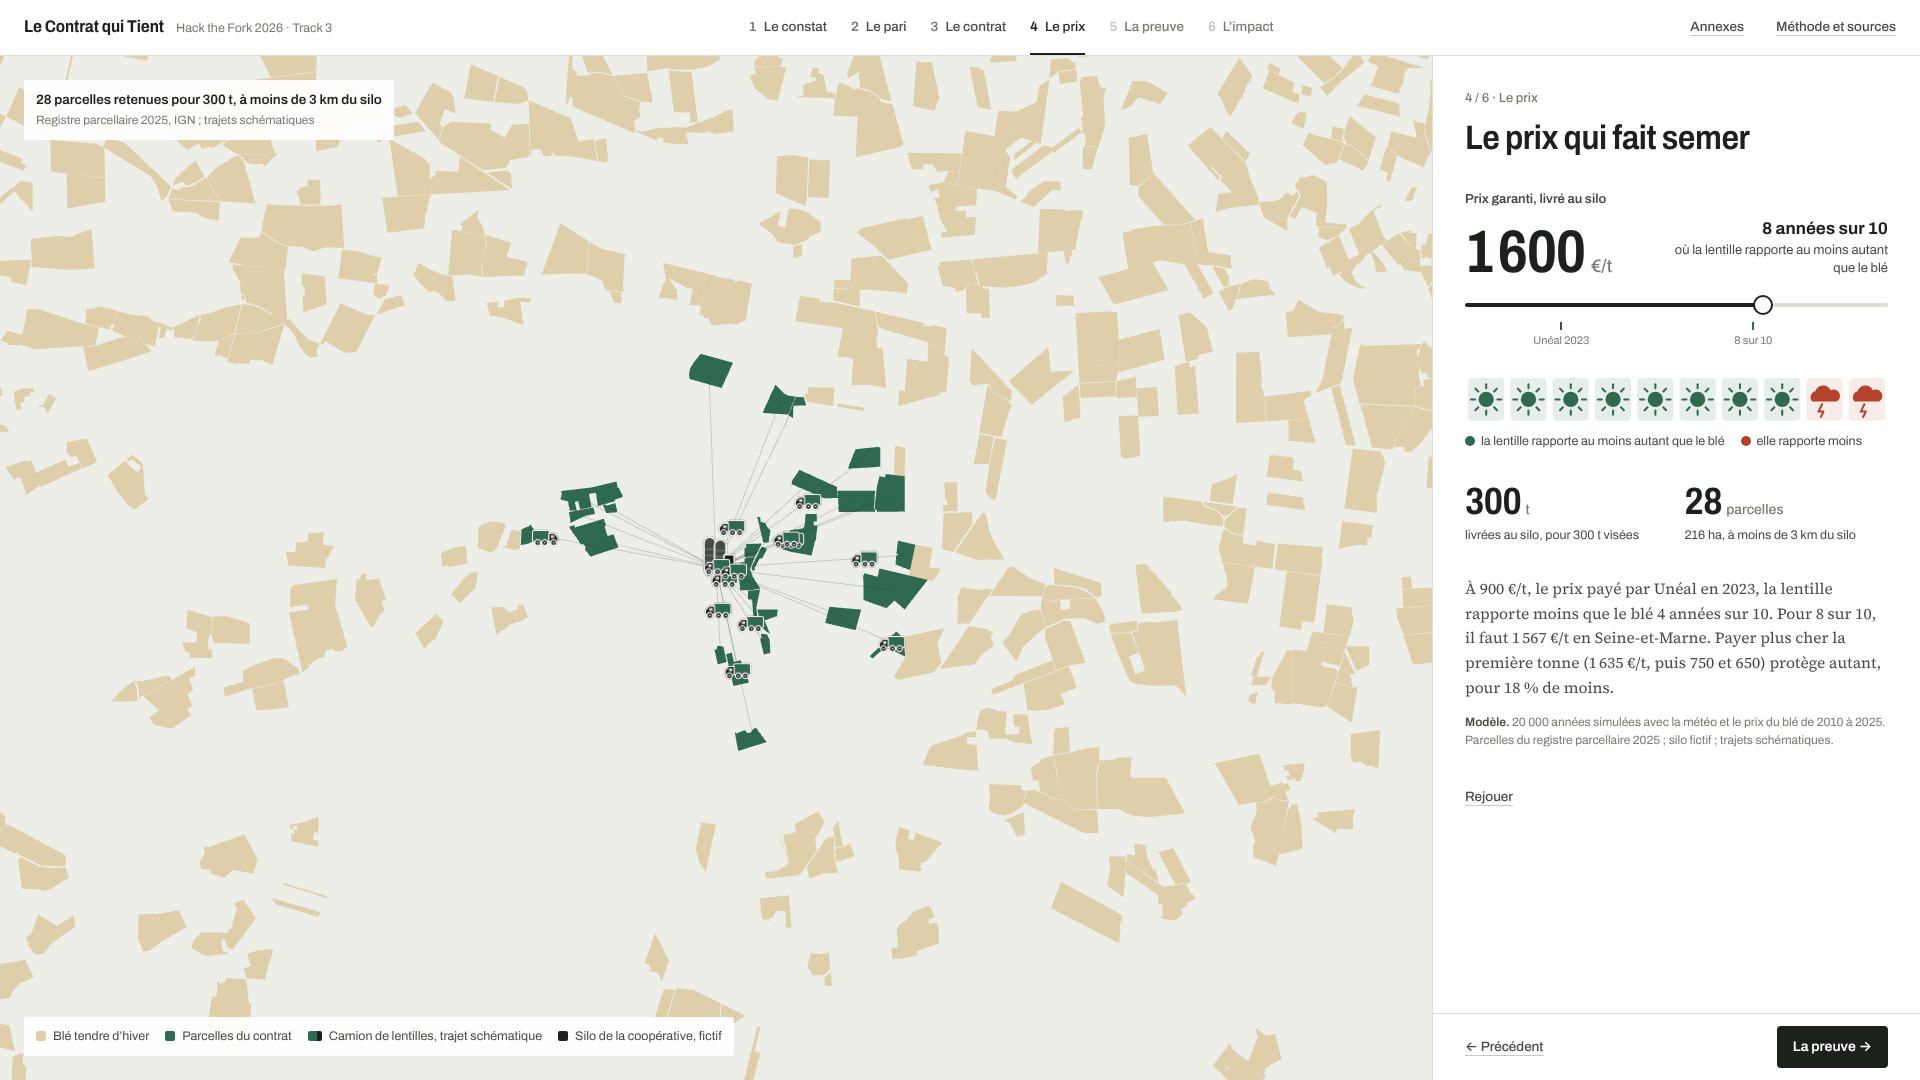
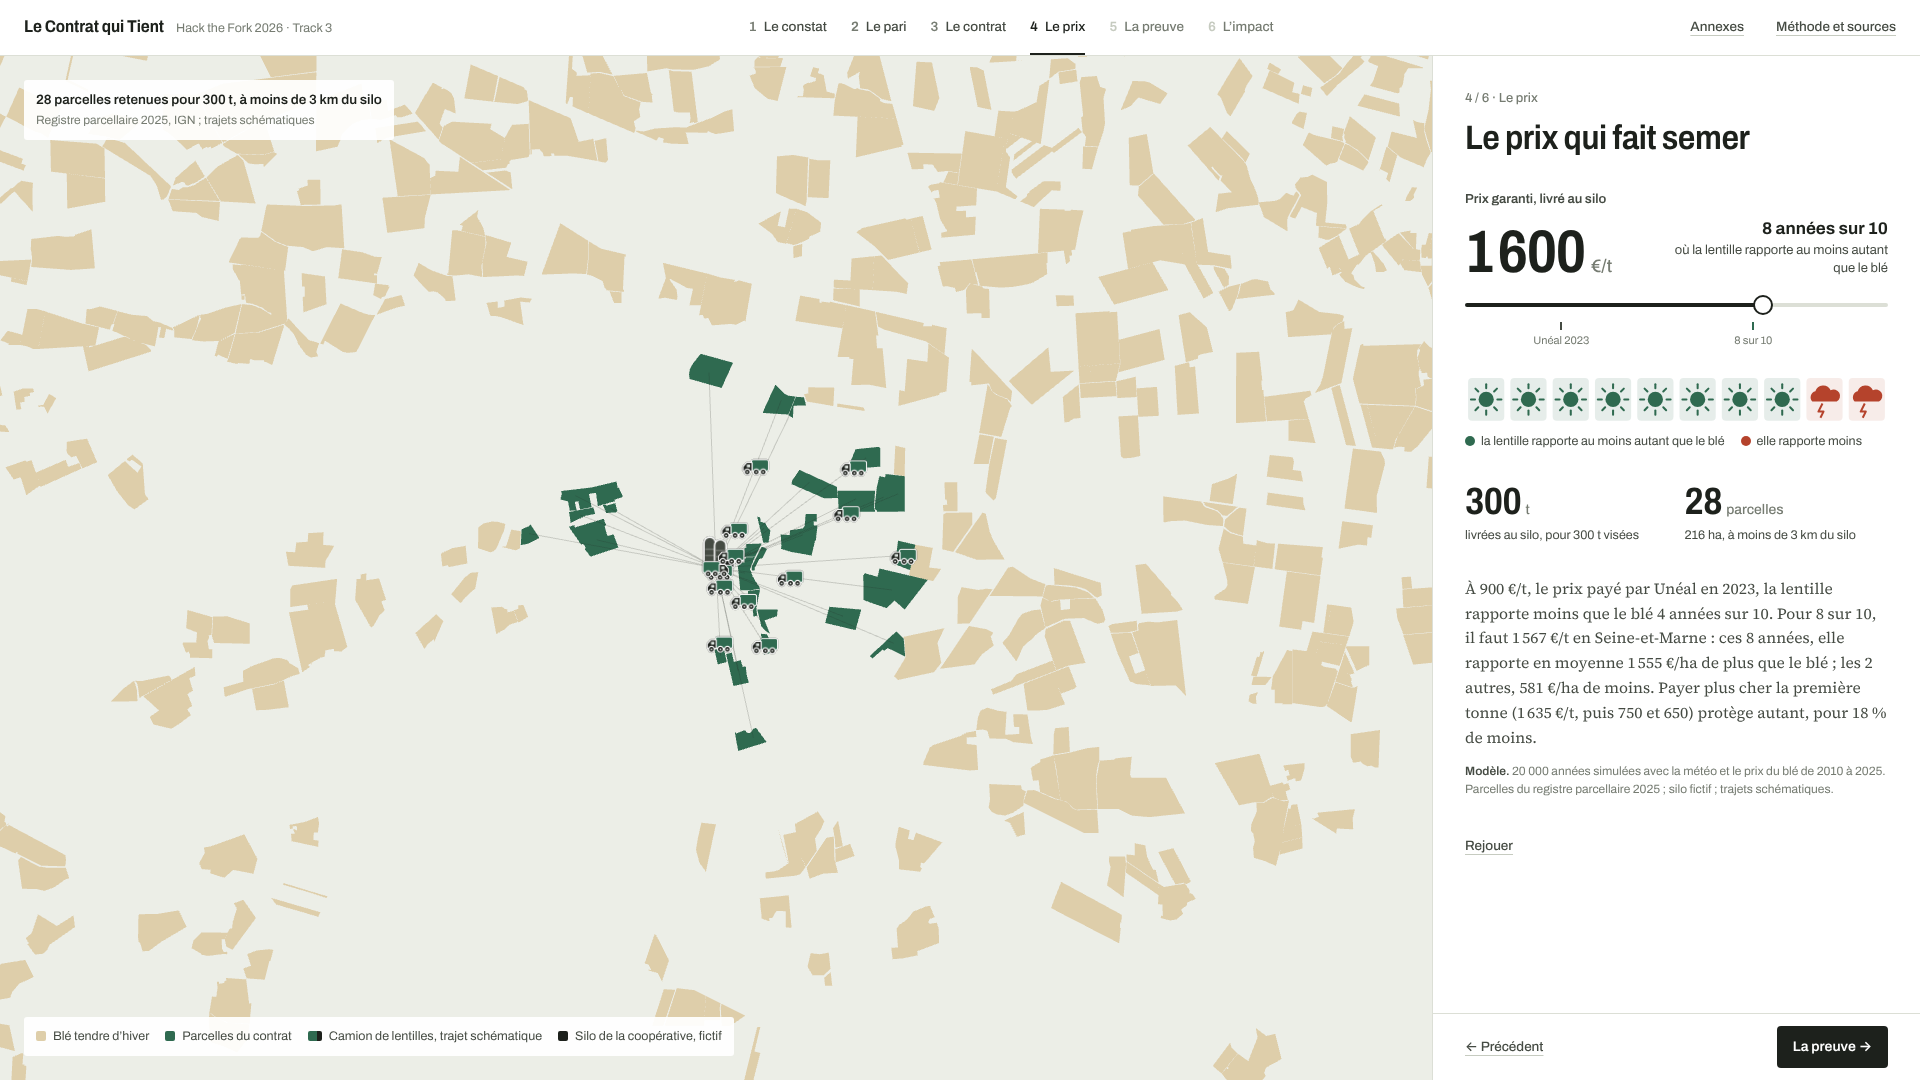
Ce que gagne l'agriculteur face au blé, ce que paie la coopérative
« 8 années sur 10 » est un plancher, pas la moyenne. 07_contrats.py
exporte, pour chaque contrat, l'écart moyen de marge avec le blé de la
même année, le gain moyen des années gagnées et la marge moyenne du blé
(seuls nouveaux champs, le reste de l'export est identique).

- Écran 4 : ces 8 années, la lentille rapporte en moyenne 1 555 €/ha de
  plus que le blé ; les 2 autres, 581 €/ha de moins.
- Annexe du contrat : tableau agriculteur / coopérative pour les cinq
  contrats.
- Notes de pitch, résultats, limites (prix de revente de la
  coopérative) et test de cohérence.

Claude-Session: https://claude.ai/code/session_015xc9sW8eqY5kEx39k7wsjx

diff --git a/app/src/App.tsx b/app/src/App.tsx
@@ -62,6 +62,19 @@ const wins = (p: number) => Math.round(reliabilityAt(p) * 10);
 const round1000 = (x: number) => Math.round(x / 1000) * 1000;
 const keur = (x: number) => `${fmt(x / 1000)}\u00a0k€`;
 const IDX = CONTRATS.indexe;
+// Ce que gagne l'agriculteur face au blé de la même année, ce que paie la coopérative (07_contrats.py).
+type Ferme = { id: string; label: string; p: number; ecart: number; gain: number; perte: number; cout: number };
+const ferme = (id: string, label: string, s: any): Ferme => ({
+  id, label, p: s.protection, ecart: s.ecart_moyen_ha, gain: s.gain_moyen_ha, perte: s.perte_moyenne_ha, cout: s.cout_moyen_t,
+});
+const FERME: Ferme[] = [
+  ferme('uneal', `Unéal 2023, ${fmt(UNEAL_PRICE)} €/t`, UNEAL.simulation),
+  ferme('unique', `Prix unique, ${fmt(C_UNIQUE.prix!)} €/t`, C_UNIQUE.simulation),
+  ferme('paliers', 'Barème par tranches', C_PALIERS.simulation),
+  ferme('indexe', 'Indexé sur le blé', IDX.simulation),
+  ferme('prime', 'Prix de base et prime à l’hectare', C_PRIME.simulation),
+];
+const signe = (x: number) => `${x >= 0 ? '+' : '−'}${fmt(Math.abs(x))}`;
 const IDX_BT = CULTURES.find((c) => c.id === 'lentille')!.backtest.taux_tenus_indexe ?? 0;
 const IDX_200 = IDX.plancher_par_prix_ble.find((r) => r.prix_ble === 200)!.plancher;
 const FIXE_PAR_BLE = thresholds.sensibilite.prix_ble_fixe as { x: number; p_star: number }[];
@@ -559,7 +572,7 @@ export default function App() {
                   <Figure value={fmt(targetP.n)} unit="parcelles" label={targetP.n ? `${fmt(targetP.ha)} ha, à moins de ${fmt(Math.max(1, targetP.km))} km du silo` : 'aucune ne bascule à ce prix'} />
                 </div>
               </div>
-              <p className="body">À {fmt(UNEAL_PRICE)} €/t, le prix payé par Unéal en 2023, la lentille rapporte moins que le blé {UNEAL_LOSSES} années sur 10. Pour 8 sur 10, il faut {fmt(D77.p_star)} €/t en Seine-et-Marne. Payer plus cher la première tonne ({fmt(C_PALIERS.paliers![0])} €/t, puis {fmt(C_PALIERS.paliers![1])} et {fmt(C_PALIERS.paliers![2])}) protège autant, pour {saving(C_PALIERS.simulation.cout_moyen_t, C_UNIQUE.simulation.cout_moyen_t)} % de moins.</p>
+              <p className="body">À {fmt(UNEAL_PRICE)} €/t, le prix payé par Unéal en 2023, la lentille rapporte moins que le blé {UNEAL_LOSSES} années sur 10. Pour 8 sur 10, il faut {fmt(D77.p_star)} €/t en Seine-et-Marne : ces 8 années, elle rapporte en moyenne {fmt(C_UNIQUE.simulation.gain_moyen_ha)} €/ha de plus que le blé ; les 2 autres, {fmt(C_UNIQUE.simulation.perte_moyenne_ha)} €/ha de moins. Payer plus cher la première tonne ({fmt(C_PALIERS.paliers![0])} €/t, puis {fmt(C_PALIERS.paliers![1])} et {fmt(C_PALIERS.paliers![2])}) protège autant, pour {saving(C_PALIERS.simulation.cout_moyen_t, C_UNIQUE.simulation.cout_moyen_t)} % de moins.</p>
               <Source k="modele">20 000 années simulées avec la météo et le prix du blé de 2010 à 2025. Parcelles du registre parcellaire 2025 ; silo fictif ; trajets schématiques.</Source>
               <button className="link" onClick={replayPrice}>Rejouer</button>
             </>
@@ -865,6 +878,25 @@ export default function App() {
                 </table>
                 <p className="body small">Le barème par tranches paie cher les premières tonnes, celles qui manquent les mauvaises années, et moins le surplus des bonnes : même protection, {saving(C_PALIERS.simulation.cout_moyen_t, C_UNIQUE.simulation.cout_moyen_t)} % de moins en moyenne. Sur 2019–2025, il tient autant de contrats que le prix unique, pour un coût réalisé inférieur de {saving(C_BT.paliers.cout_moyen_t, C_BT.unique.cout_moyen_t)} %. La prime à l’hectare coûte encore moins, mais l’acheteur la paie même quand la récolte manque, et elle a cédé quand le blé a flambé : {pct(C_2022.prime_ha)} des contrats tenus en 2022.</p>
                 <Source k="modele">Seine-et-Marne, mêmes années simulées. Coût moyen : sommes versées par tonne acceptée, en €/t, hors collecte et tri. Année faible : {dec(CONTRATS.yFaible, 2)} t/ha acceptées, une année sur dix. Backtest : chaque forme recalibrée sur les seules années passées, {G.n_cas} cas.</Source>
+              </div>
+              <div className="block">
+                <h3>Ce que gagne l’agriculteur, ce que paie la coopérative</h3>
+                <table className="list models contracts">
+                  <thead><tr><th>Contrat</th><th className="num">Écart moyen</th><th className="num">Années gagnées</th><th className="num">Années perdues</th><th className="num">Coût</th></tr></thead>
+                  <tbody>
+                    {FERME.map((r) => (
+                      <tr key={r.id} className={r.id === 'paliers' ? 'hl' : ''}>
+                        <td>{r.label}<span>la lentille gagne {fmt(r.p * 10)} années sur 10</span></td>
+                        <td className="num">{signe(r.ecart)}</td>
+                        <td className="num">{signe(r.gain)}</td>
+                        <td className="num bad">{signe(-r.perte)}</td>
+                        <td className="num">{fmt(r.cout)}</td>
+                      </tr>
+                    ))}
+                  </tbody>
+                </table>
+                <p className="body small">« 8 années sur 10 » est un plancher, pas la moyenne : ces années-là, la lentille sous contrat rapporte plus que le blé, souvent beaucoup plus. Au prix unique, l’agriculteur gagne en moyenne {fmt(C_UNIQUE.simulation.ecart_moyen_ha)} €/ha de plus qu’en blé, dont la marge moyenne est de {fmt(C_UNIQUE.simulation.marge_ble_moyenne_ha)} €/ha. C’est la coopérative qui paie cet écart : le barème par tranches garde la même protection, laisse encore {fmt(C_PALIERS.simulation.ecart_moyen_ha)} €/ha de plus que le blé à l’agriculteur, et coûte {saving(C_PALIERS.simulation.cout_moyen_t, C_UNIQUE.simulation.cout_moyen_t)} % de moins. Au prix d’Unéal, la lentille ne gagne que {fmt(UNEAL.simulation.protection * 10)} années sur 10 : pas assez pour quitter le blé.</p>
+                <Source k="modele">Seine-et-Marne, mêmes années simulées, face au blé de la même année. Écart moyen, années gagnées et années perdues : marge en €/ha, aide couplée et bénéfice de rotation compris ; sur les années gagnées ou perdues seulement pour les deux dernières. Coût : €/t acceptée payé par la coopérative, hors collecte et tri.</Source>
               </div>
               <div className="block">
                 <h3>Les mauvaises années, contrat par contrat</h3>

diff --git a/app/src/data.ts b/app/src/data.ts
@@ -218,7 +218,7 @@ export const CONTRATS = {
   yFaible: contrats.rendement_accepte_annee_faible_tha,
   /** Plancher indexé : m × prix du blé de la récolte, m calibré pour la même promesse (07_contrats.py). */
   indexe: (contrats as any).indexe as {
-    m: number; simulation: { protection: number; cout_moyen_t: number; cout_t_annee_faible: number };
+    m: number; simulation: { protection: number; cout_moyen_t: number; cout_t_annee_faible: number; gain_moyen_ha: number; perte_moyenne_ha: number; ecart_moyen_ha: number };
     plancher_par_prix_ble: { prix_ble: number; plancher: number }[];
   },
   /** Assurance rendement de la lentille, même simulation : prime pure hors chargements (offre assureurs). */

diff --git a/pipeline/07_contrats.py b/pipeline/07_contrats.py
@@ -5,7 +5,8 @@ Mêmes 20 000 années que le prix plancher (05_export.py, graine 77). Pour chaqu
 - le coût moyen d'achat par tonne acceptée (sommes versées / tonnes acceptées), hors
   collecte et tri ;
 - le coût par tonne une année de faible rendement (rendement accepté du premier décile) ;
-- la perte moyenne de l'agriculteur face au blé, les années où la lentille perd.
+- la perte moyenne de l'agriculteur face au blé, les années où la lentille perd, et son gain moyen
+  les années où elle gagne : « 8 années sur 10 » est un plancher, pas le résultat moyen.
 Les résultats du backtest 2019-2025 (03_backtest.py) sont joints.
 Contrat indexé : plancher = m × prix du blé de la récolte, m calibré sur les mêmes années ; son
 plancher est donné pour quelques prix du blé (le prix fixe équivalent est dans thresholds.json).
@@ -38,6 +39,11 @@ def mesurer(c: dict, yL, yW, pB, h: dict) -> dict:
         "cout_t_annee_faible": round(float(paiement(c, np.array([y10]))[0] / y10)),
         "verse_moyen_ha": round(float(verse.mean())),
         "perte_moyenne_ha": round(float(ecart[perd].mean())) if perd.any() else 0,
+        # Ce que gagne l'agriculteur face au blé de la même année : « 8 années sur 10 » est un plancher,
+        # pas le résultat moyen.
+        "gain_moyen_ha": round(float(-ecart[~perd].mean())) if (~perd).any() else 0,
+        "ecart_moyen_ha": round(float(-ecart.mean())),
+        "marge_ble_moyenne_ha": round(float((pB * yW - h["charges_ble"]).mean())),
     }
 
 
@@ -68,12 +74,17 @@ def main():
     # Contrat indexé sur le blé : payé m × prix du blé de l'année par tonne acceptée.
     m_star = float(p_star(R / pB, h["tau"]))
     faible = paid <= np.quantile(paid, 0.1)
+    ecart_i = m_star * pB * paid - h["charges_lentille"] + h["bonus"] - (pB * yW - h["charges_ble"])
+    gagne_i = ecart_i >= 0
     out["indexe"] = {
         "id": "indexe", "m": round(m_star, 2),
         "simulation": {
             "protection": round(float(np.mean(m_star * pB >= R)), 3),
             "cout_moyen_t": round(float((m_star * pB * paid).mean() / paid.mean())),
             "cout_t_annee_faible": round(float((m_star * pB[faible] * paid[faible]).sum() / paid[faible].sum())),
+            "gain_moyen_ha": round(float(ecart_i[gagne_i].mean())),
+            "perte_moyenne_ha": round(float(-ecart_i[~gagne_i].mean())),
+            "ecart_moyen_ha": round(float(ecart_i.mean())),
         },
         # Plancher indexé pour quelques prix du blé ; le prix fixe équivalent est dans thresholds.json.
         "plancher_par_prix_ble": [{"prix_ble": p, "plancher": round(m_star * p)} for p in (160, 200, 240, 280)],

diff --git a/tests/test_pipeline.py b/tests/test_pipeline.py
@@ -308,3 +308,13 @@ def test_import_origins_are_consistent():
     parts = [x["part"] for x in o]
     assert parts == sorted(parts, reverse=True) and 0 < sum(parts) <= 1
     assert sum(x["tonnes"] for x in o) <= meta["lentille_2025"]["importations_t"]
+
+
+def test_farmer_gain_is_consistent_with_protection():
+    """« 8 années sur 10 » est un plancher : gain moyen positif, écart moyen = p × gain − (1 − p) × perte."""
+    c = json.loads((DATA / "contrats.json").read_text())
+    sims = [x["simulation"] for x in c["existants"] + c["calibres"]] + [c["indexe"]["simulation"]]
+    for s in sims:
+        p = s["protection"]
+        assert s["gain_moyen_ha"] > 0 and s["perte_moyenne_ha"] > 0
+        assert abs(p * s["gain_moyen_ha"] - (1 - p) * s["perte_moyenne_ha"] - s["ecart_moyen_ha"]) <= 3

diff --git a/docs/PITCH_NOTES.md b/docs/PITCH_NOTES.md
@@ -16,6 +16,9 @@
 | Question | Réponse courte |
 |---|---|
 | D'où viennent les lentilles importées ? | Du Canada pour 45 %, de Belgique pour 37 % (pays d'expédition, qui en produit peu), de Turquie pour 6 % (Comext 2025). |
+| L'agriculteur ne gagnerait-il pas plus avec le blé ? | Non : « 8 années sur 10 » est un plancher, pas la moyenne. Ces 8 années, la lentille sous contrat rapporte en moyenne 1 555 €/ha de plus que le blé de la même année ; les 2 autres, 581 €/ha de moins. En moyenne, +1 128 €/ha au prix unique et +722 €/ha avec le barème par tranches, pour une marge de blé de 869 €/ha. Sans contrat assez haut, il reste au blé : à 900 €/t, la lentille ne gagne que 6 années sur 10. |
+| Pourquoi pas 10 années sur 10 ? | Le prix s'envole : 1 132 €/t pour 7 années sur 10, 1 567 pour 8, 2 632 pour 9, 4 397 pour 9,5. Les mauvaises années de lentille sont rares mais profondes. La coopérative choisit son niveau de protection dans l'outil. |
+| Et la coopérative, pourquoi payer si cher ? | Parce que sans garantie, personne ne sème de lentilles en Île-de-France, et 46 % de la consommation est importée. C'est elle qui paie l'écart avec le blé ; l'outil l'aide à payer le moins possible pour la même protection : barème par tranches −18 %, soit 85 k€ par campagne sur 300 t. Limite assumée : avec tri et collecte, le pilote lui coûte 1 489 €/t acceptée, au-dessus des 900 à 1 000 €/t des contrats publiés ; il faut un débouché qui paie l'origine locale, ou un bassin moins cher (558 à 1 115 €/t dans les départements les mieux placés). |
 | Ça finit au bétail ? | Non : des lentilles pour l'alimentation humaine, achetées par un conditionneur de légumes secs. Le prix garanti ne s'applique qu'aux tonnes acceptées au tri. |
 | Vous payez quelles tonnes ? | Les tonnes acceptées au tri, comme dans tout contrat de collecte : un lot refusé (bruche, impuretés, calibre) ne touche pas le prix garanti. Agreste mesure la récolte avant ce tri ; on retire 10 %, une seule fois. À 0 % de refus, le prix plancher serait de 1 411 €/t ; à 20 %, de 1 763 €/t. |
 | Où est l'IA ? | Un modèle d'apprentissage probabiliste : il apprend sur 294 couples département × année comment la météo déplace la distribution du rendement. Deux modèles entraînés et comparés (régression quantile, LightGBM), calibrés par conformal prediction, validés sur des années jamais vues. |

diff --git a/docs/LIMITES.md b/docs/LIMITES.md
@@ -31,4 +31,5 @@ Ces limites sont annoncées par l'équipe elle-même, dans le deck et pendant le
 | **Un prix plancher n'est pas une assurance** | une récolte effondrée réduit la marge malgré le prix | le modèle en tient compte ; les 20 % non couverts sont visibles ; prime pure d'une assurance rendement calculée sur la même distribution (231 €/ha pour 70 % du rendement moyen) | tarif d'un assureur, avec ses chargements |
 | **Budget de l'acheteur** | tri à 180 €/t reçue (repère du tri optique en bio), collecte 5 €/t + 0,12 €/t/km : aucune de ces valeurs n'est un devis ; séchage, stockage et conditionnement exclus | budget étiqueté « supposé », achat seul étiqueté « modèle » | devis de tri et de collecte du partenaire |
 | **Camions et bateaux de la démo** | animations schématiques : un camion par parcelle retenue (90 au plus), en ligne droite ; les cargos illustrent les importations sans route réelle | le compteur de tonnes vient du calcul, pas de l'animation | — |
+| **Prix de revente de la coopérative inconnu** | le pilote lui coûte 1 489 €/t acceptée avec tri et collecte (barème par tranches), au-dessus des 900 à 1 000 €/t des contrats publiés en dehors de l'Île-de-France : sans débouché qui paie l'origine locale, elle perd de l'argent | coût affiché ; niveau de protection réglable ; carte de France des prix pour choisir un bassin moins cher | prix de vente aux conditionneurs, demandé au partenaire |
 | **Clients possibles comptés dans Sirene** | 142 coopératives agricoles et 28 unions actives en NAF 46.21Z : le code d'activité principale ne dit pas lesquelles collectent des légumes secs ; les conditionneurs ne sont pas comptés | chiffre présenté comme un ordre de grandeur du marché | liste qualifiée avec un partenaire |
